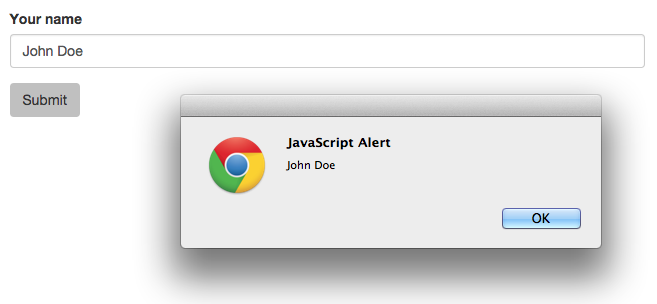
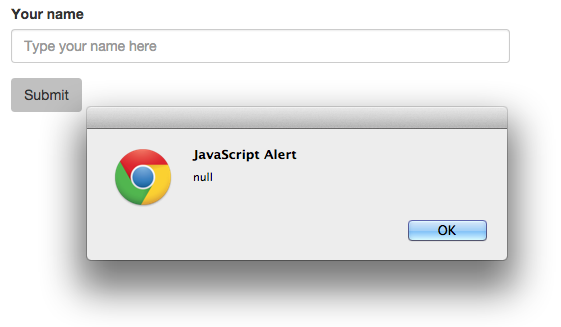
Add hello world example. Expand the Readme.

Changed region(s): [[0.0, 0.0296, 0.9697, 0.9474], [0.303, 0.2961, 0.9091, 0.3257]]

diff --git a/examples/hello_world/index.html b/examples/hello_world/index.html
@@ -1,0 +1,25 @@
+<!DOCTYPE html>
+<html>
+<head lang="en">
+    <meta charset="UTF-8">
+    <title></title>
+    <link href="https://netdna.bootstrapcdn.com/bootstrap/3.1.1/css/bootstrap.min.css" rel="stylesheet"/>
+    <style>
+        .form-buttons .btn {
+            margin-right: 10px;
+        }
+    </style>
+</head>
+<body>
+
+<div class="row">
+    <div class="col-md-offset-3 col-md-6">
+        <div id="app"></div>
+    </div>
+</div>
+<script src="http://fb.me/react-0.12.2.js"></script>
+<script src="out/goog/base.js" type="text/javascript"></script>
+<script src="out/main.js" type="text/javascript"></script>
+<script type="text/javascript">goog.require("examples.hello_world");</script>
+</body>
+</html>

diff --git a/README.md b/README.md
@@ -1,6 +1,11 @@
+- FIX checkbox and radio alignment.
+
 # om-forms
 
-A Clojurescript library that lets you build beautiful forms based on Om and Bootstrap 3. It is production-ready.
+A Clojurescript library that lets you build beautiful forms with Om and Bootstrap 3. Its purpose is to make it possible to quickly build forms rather than make it possible to use every Bootstrap feature. 
+I have deliberately limited the library to the key essentials but you think something useful is missing, please let me know. 
+
+You can safely use this library in your project. It has been used in a large production project and its interface isn't likely to change.
 
 ![](https://github.com/bilus/om-forms/blob/master/doc/images/sample.png)
 
@@ -41,19 +46,21 @@ Here's how you create an Om component with a form with just one text field and a
 
 ```clojure
 (defn simple-view
-  [customer _owner]
+  [data _owner]
   (om/component
     (sablono/html
       (f/form
         {}
-        (f/text "Your name" "Type your name here" customer [:name])
+        (f/text "Your name" "Type your name here" data [:name])
         (f/form-buttons
-           (f/button "Submit" #(js/alert (:name @customer))))))))
+           (f/button "Submit" #(js/alert (:name @data))))))))
 ```
 
 ![](https://github.com/bilus/om-forms/blob/master/doc/images/hello-world.png)
 
 Note that `form` returns a data structure compatible with sablono which we then compile into a node.
+
+### Prettying it up
 
 #### Changing orientation
 
@@ -61,18 +68,49 @@ To change the orientation use `with-options`:
 
 ```clojure
 (f/with-options {:form {:horizontal true}}
-        (f/form
-         {}
-         (f/text "Your name" "Type your name here" customer [:name])
-         (f/form-buttons
-           (f/button "Submit" #(js/alert (:name @customer))))))
+    (f/form
+     {}
+     (f/text "Your name" "Type your name here" data [:name])
+     (f/form-buttons
+       (f/button "Submit" #(js/alert (:name @data))))))
 ```
 
 ![](https://github.com/bilus/om-forms/blob/master/doc/images/hello-world-horizontal.png)
 
-#### Grouping controls
 #### Wrapping in panel
-#### Button groups
+
+To wrap the form in a panel, use `panel`:
+
+```clojure
+(f/panel
+    "Hello, world"
+    {}
+    (f/form
+      {}
+      (f/text "Your name" "Type your name here" data [:name])
+      (f/form-buttons
+        (f/button "Submit" #(js/alert (:name @data))))))
+```
+
+![](https://github.com/bilus/om-forms/blob/master/doc/images/hello-world-panel.png)
+
+#### Button types
+
+Finally, let's take make the button clearly a primary one and add a cancel button and, just for the fun of it, a checkbox that toggles the orientation:
+
+```clojure
+(f/form
+  {}
+  (f/text "Your name" "Type your name here" data [:name])
+  (f/form-buttons
+    (f/button-primary "Submit" #(js/alert (:name @data)))
+    (f/button-default "Cancel" #(js/alert "Cancel!")))
+  (f/checkbox "Horizontal form" data [:orientation-horizontal]))
+```
+
+![](https://github.com/bilus/om-forms/blob/master/doc/images/hello-world-buttons.png)
+
+The complete example: [here](https://github.com/bilus/om-forms/blob/master/examples/hello_world/src/hello_world.cljs).
 
 For the list of available controls, see reference: ...
 
